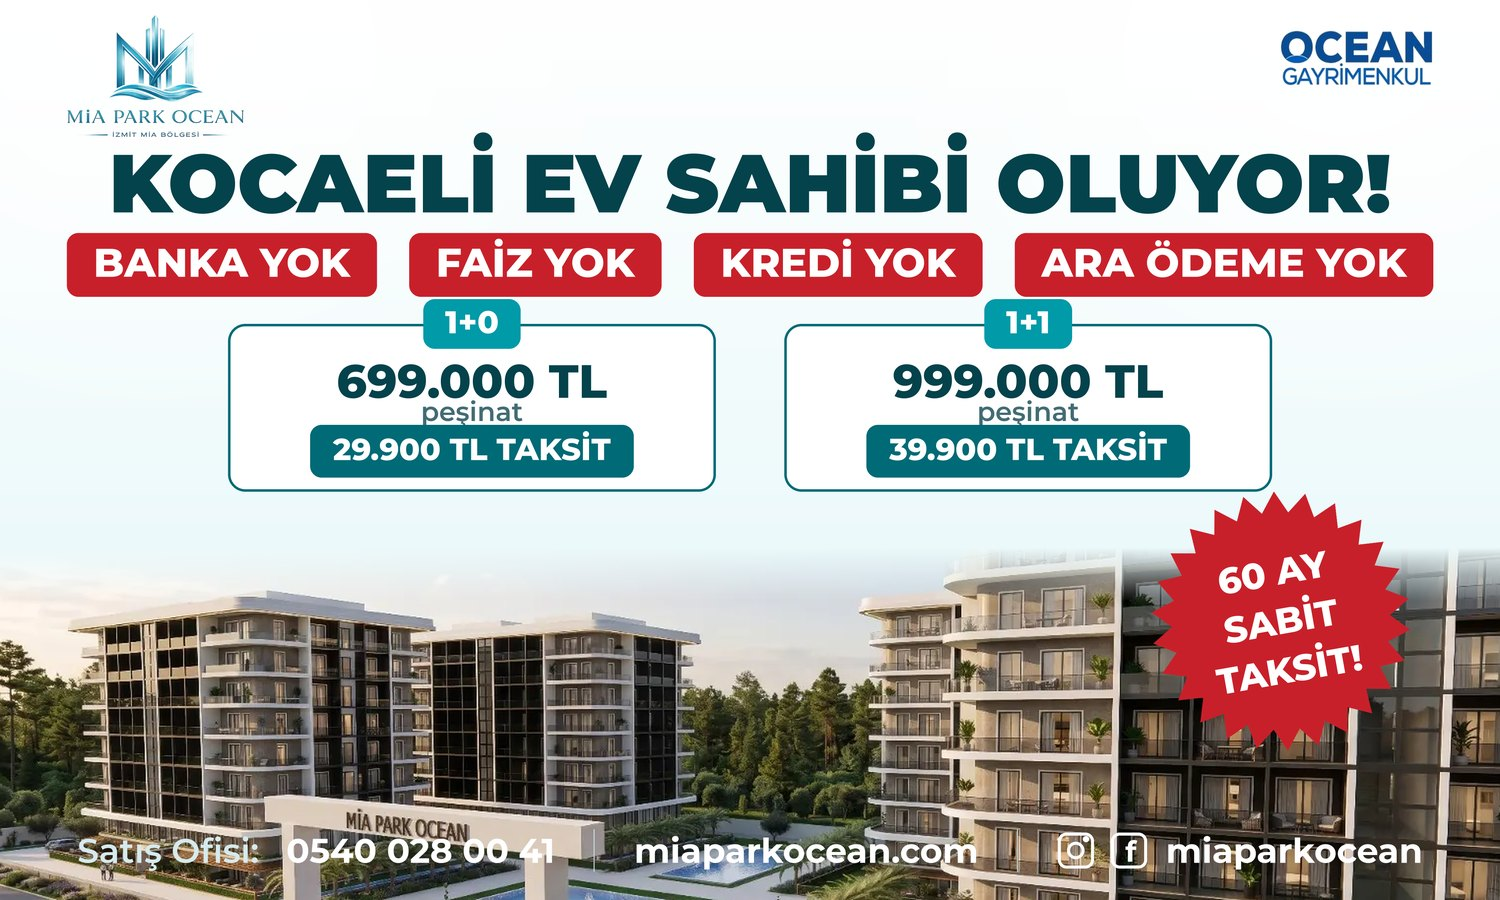
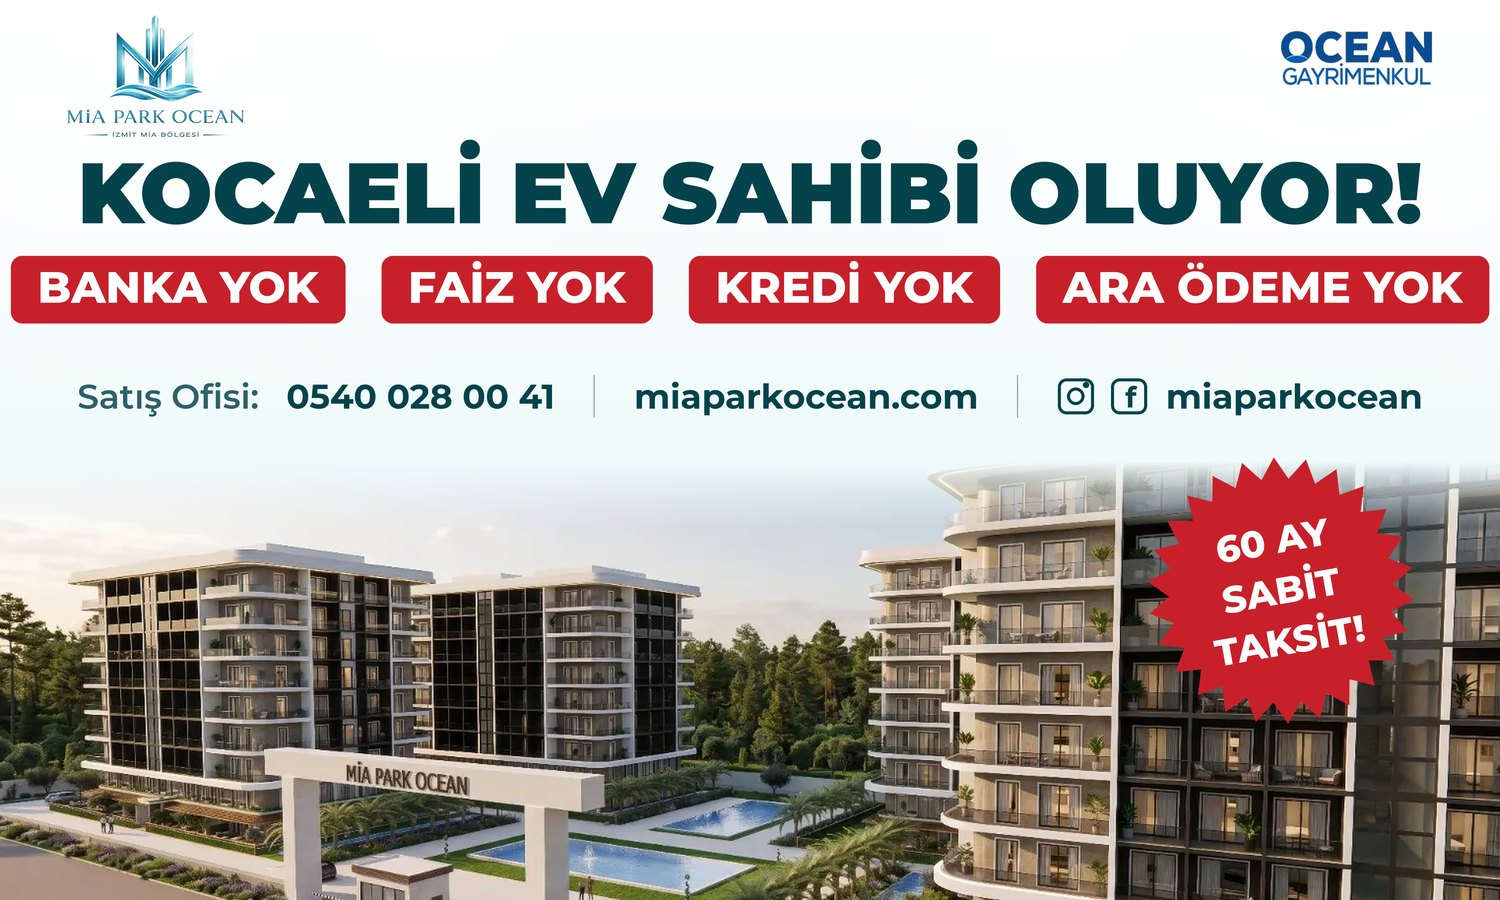
Gündüz Kocaeli 3x5 de fiyatsız — gece ile aynı düzen
- 1+0/1+1 kartları kaldırıldı; iletişim satırı açık zeminde petrol,
  foto 2300 px şerit, burgu gökte

Claude-Session: https://claude.ai/code/session_014vbWeo5uAXPs6zFw9SmWv2

diff --git a/scripts/build-bilbord-3x5-turkuaz.py b/scripts/build-bilbord-3x5-turkuaz.py
@@ -184,18 +184,17 @@ def gece():
 
 
 def main():
+    """Gündüz Kocaeli — gece ile aynı FİYATSIZ düzen, açık zemin."""
     im = zemin()
-    foto_alt(im, 1850)
+    foto_alt(im, 2300, bl=340)
     logolar(im)
     dr = ImageDraw.Draw(im)
-    dr.text((W / 2, 960), "KOCAELİ EV SAHİBİ OLUYOR!",
-            font=sigdir(dr, "KOCAELİ EV SAHİBİ OLUYOR!", "Black", 430,
+    dr.text((W / 2, 1010), "KOCAELİ EV SAHİBİ OLUYOR!",
+            font=sigdir(dr, "KOCAELİ EV SAHİBİ OLUYOR!", "Black", 470,
                         W - 2 * PAD), fill=PETROL, anchor="mm")
-    tz.yok_satiri(dr, W / 2, 1390, boy=210, ara=170)
-    tz.kartlar(dr, W / 2, 1700)
-    yildiz(im, W - 1150, 3260, 680, ["60 AY", "SABİT", "TAKSİT!"], don=10)
-    dr = ImageDraw.Draw(im)
-    iletisim(dr, H - 260)
+    tz.yok_satiri(dr, W / 2, 1520, boy=230, ara=190)
+    iletisim(dr, 2080, acik=True, boy=240)
+    yildiz(im, W - 1150, 3100, 700, ["60 AY", "SABİT", "TAKSİT!"], don=10)
     _ciktilar(im, "turkuaz-01-kocaeli-3x5")
 
 
